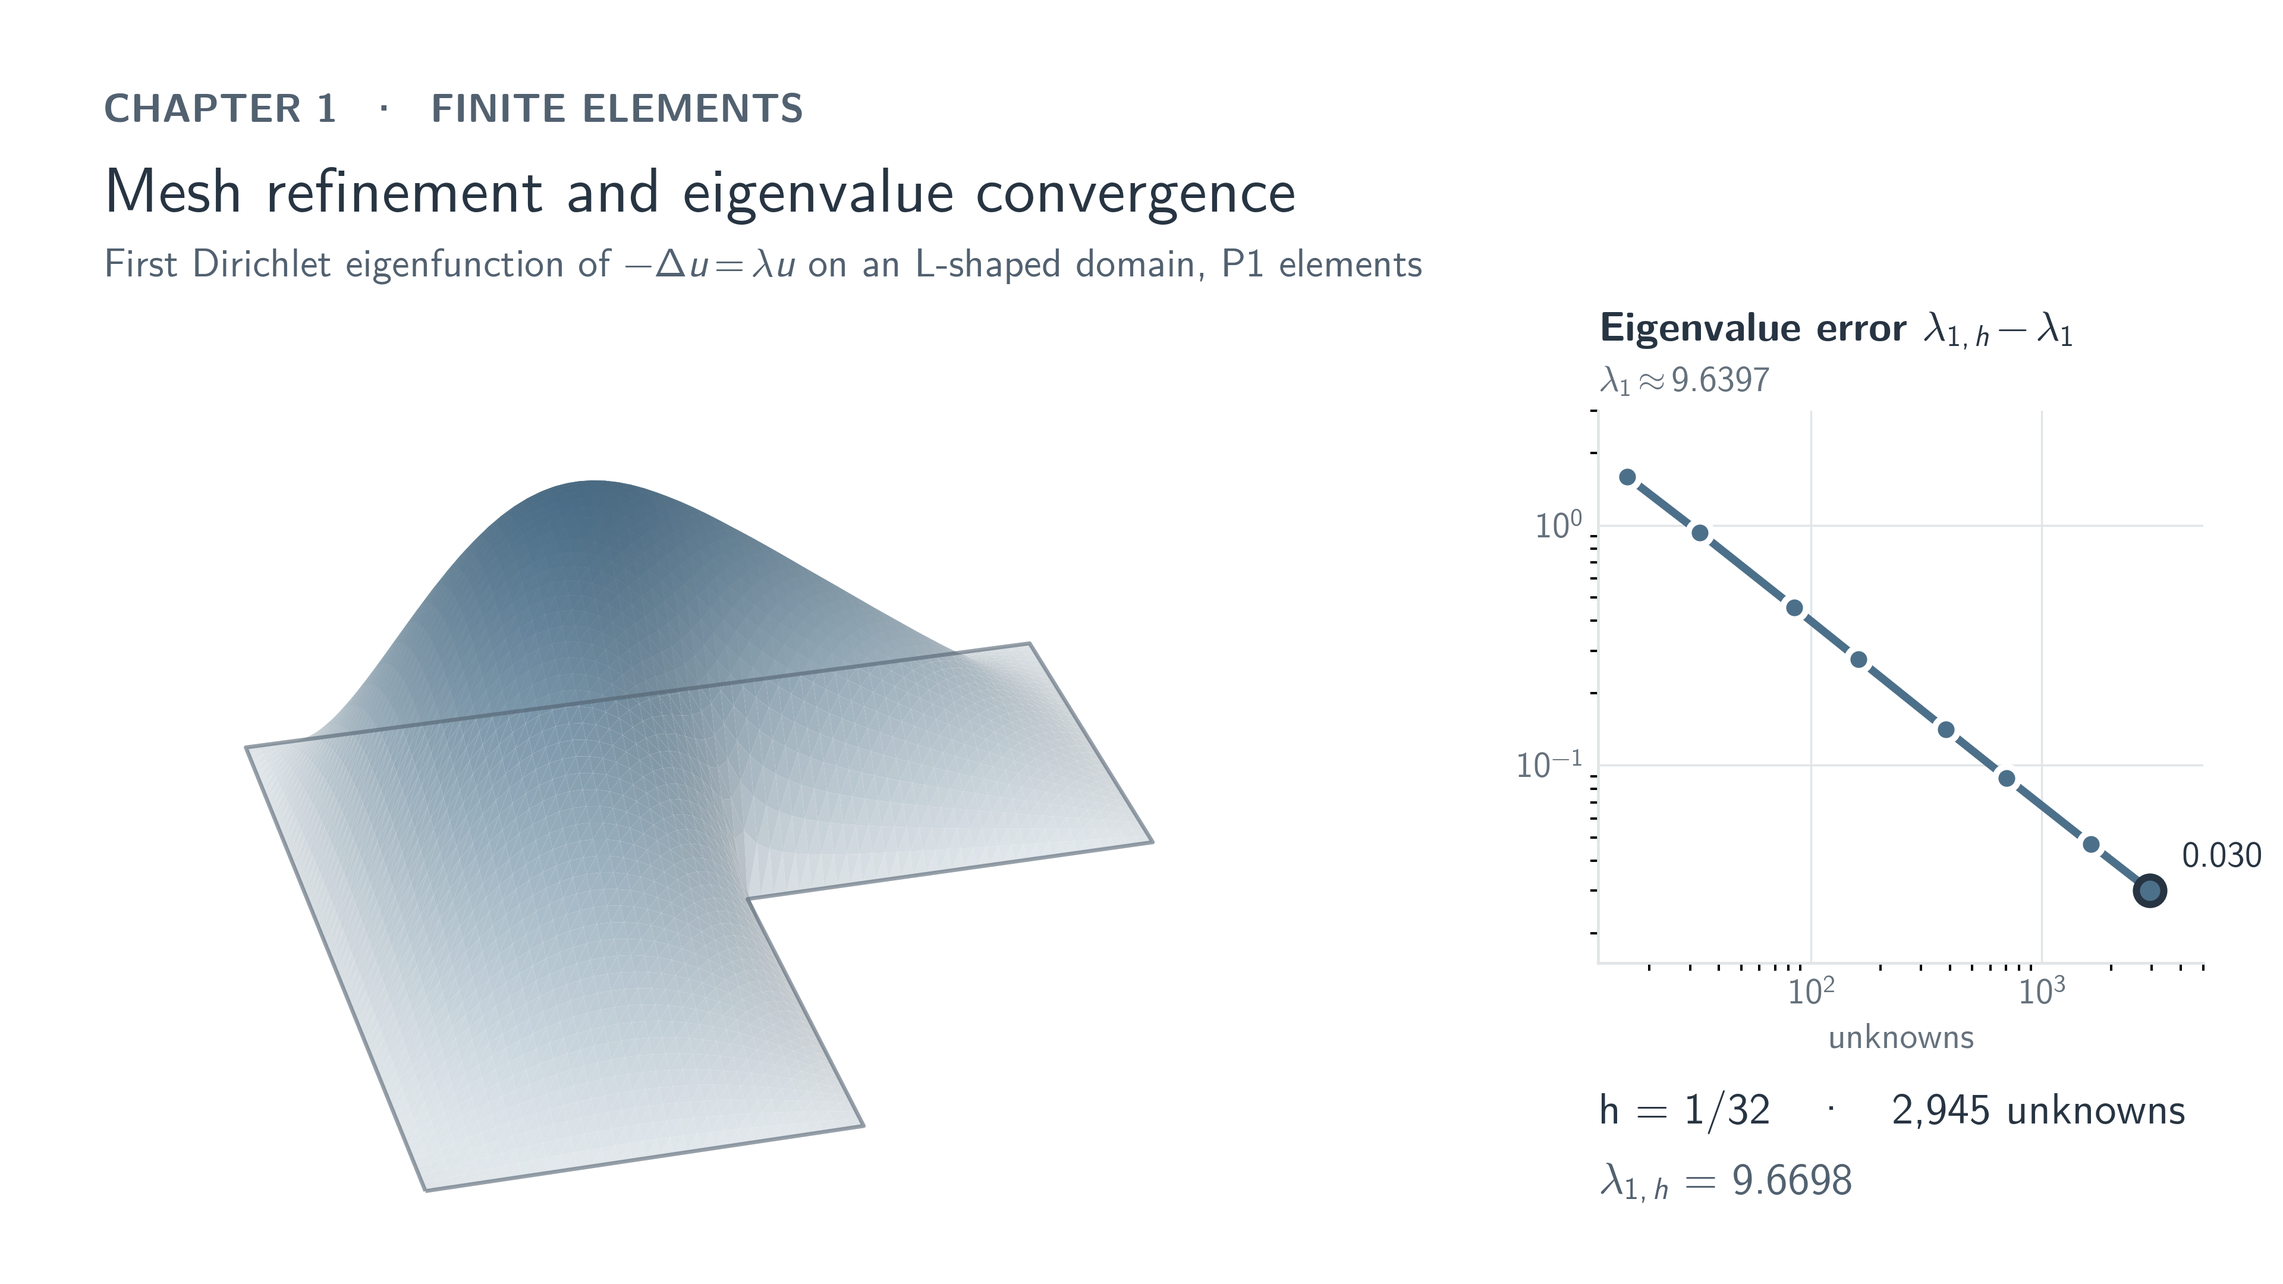
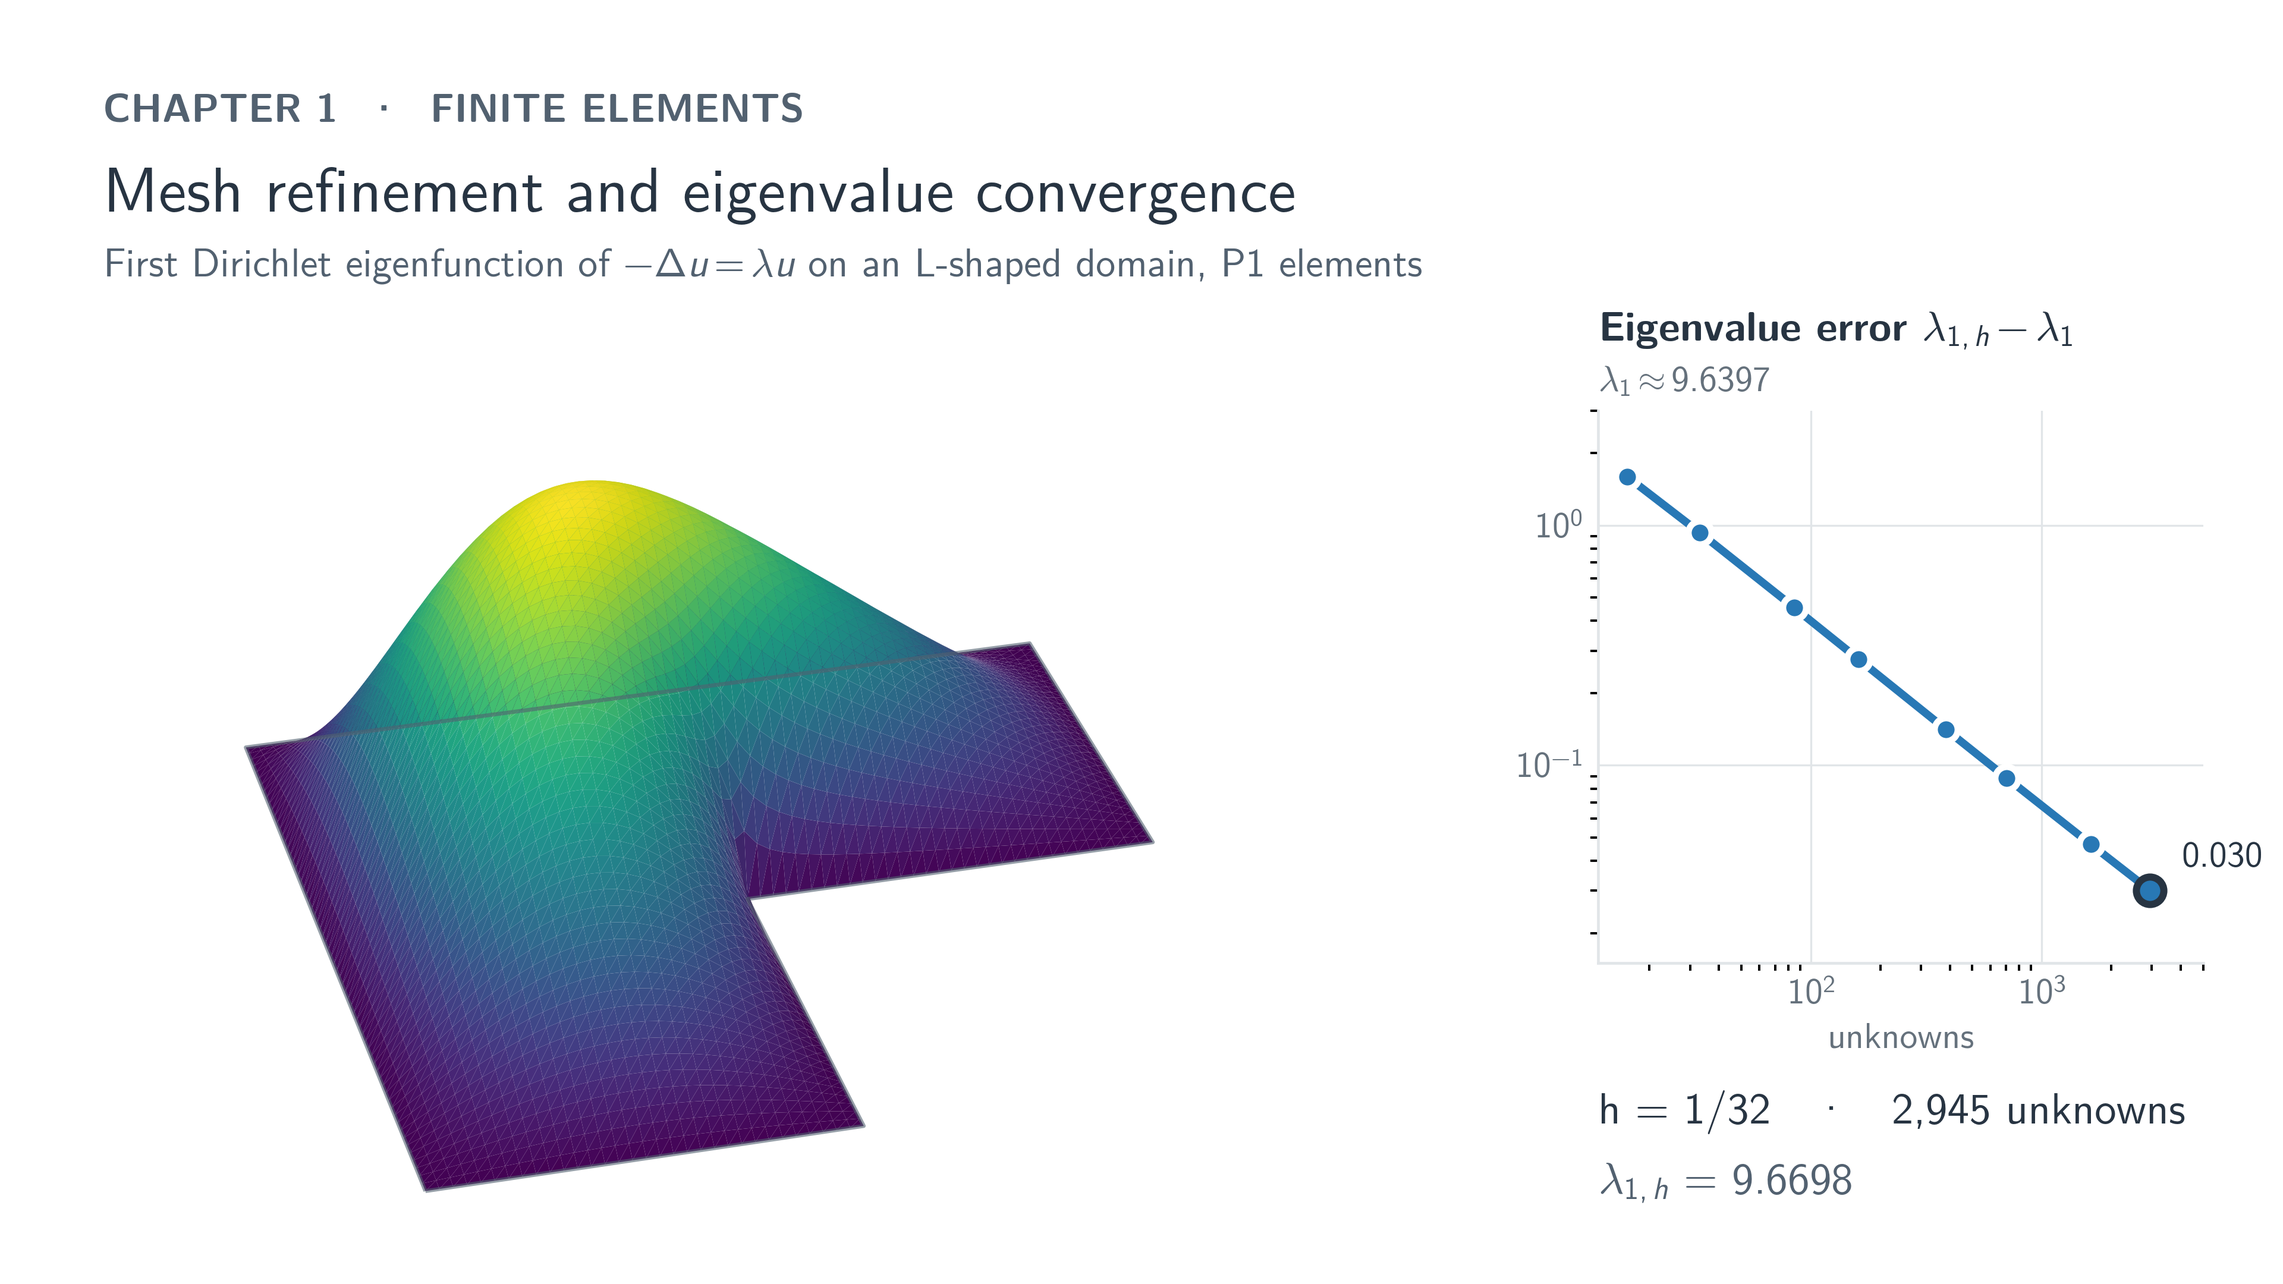
Improved visuals

diff --git a/.github/readme/generator/style.py b/.github/readme/generator/style.py
@@ -8,7 +8,7 @@ import matplotlib.pyplot as plt
 from matplotlib import font_manager
 from matplotlib.colors import LinearSegmentedColormap
 import numpy as np
-from PIL import Image
+from PIL import Image, ImageColor
 
 # Quiet, print-oriented palette shared by all README graphics.
 PAPER = "#FFFFFF"
@@ -20,6 +20,13 @@ LABEL = "#526170"
 BLUE = "#4D708A"
 RUST = "#A47758"
 LIGHT = "#F3F5F6"
+
+# Vivid data colours for animations; typography keeps the neutral tokens above.
+PLOT_BLUE = "#2878B5"
+PLOT_ORANGE = "#E87524"
+PLOT_PURPLE = "#8056BD"
+ANIMATION_SOLUTION_CMAP = matplotlib.colormaps["viridis"]
+ANIMATION_ERROR_CMAP = matplotlib.colormaps["plasma"]
 
 # Render at native UHD resolution; never enlarge a low-resolution raster.
 ANIMATION_FIGSIZE = (8, 4.5)
@@ -60,37 +67,57 @@ def use_course_fonts():
     })
 
 
-def fig_to_image(fig, size=None):
-    """Render a figure to a PIL image, optionally downsampled for crisp anti-aliasing."""
+def fig_to_image(fig, size=None, transparent=False):
+    """Render at native resolution, preserving alpha for transparent animations."""
+    if transparent:
+        fig.patch.set_alpha(0)
+        for ax in fig.axes:
+            ax.patch.set_alpha(0)
     fig.canvas.draw()
-    img = Image.fromarray(np.asarray(fig.canvas.buffer_rgba())[..., :3].copy())
+    rgba = np.asarray(fig.canvas.buffer_rgba()).copy()
+    img = Image.fromarray(rgba if transparent else rgba[..., :3])
     if size is not None:
-        img = img.resize(size, Image.LANCZOS)
+        img = img.resize(size, Image.Resampling.LANCZOS)
     return img
 
 
-def save_gif(frames, path, durations, colors=256):
-    """Write a UHD GIF with a stable full palette and a lossless final still.
+def save_gif(frames, path, durations):
+    """Write transparent UHD frames with a shared 255-colour data palette.
 
-    Every frame contributes to the palette. Small palette-training previews keep
-    memory bounded without reducing the resolution of the encoded frames.
+    GIF reserves the final palette entry for one-bit transparency. Restore the
+    transparent background between frames so moving curves leave no trails.
+    The final PNG retains full colour and smooth alpha at antialiased edges.
     """
     thumb_size = (480, 270)
-    sample = Image.new("RGB", (thumb_size[0], thumb_size[1] * len(frames)))
+    sample = Image.new("RGB", (thumb_size[0], thumb_size[1] * len(frames)), "white")
     for k, frame in enumerate(frames):
-        sample.paste(frame.resize(thumb_size, Image.Resampling.LANCZOS),
-                     (0, k * thumb_size[1]))
-    palette = sample.quantize(colors=colors, method=Image.Quantize.MEDIANCUT)
-    # Preserve the exact white page background after adaptive quantisation.
-    entries = palette.getpalette()
-    whitest = max(range(colors), key=lambda i: sum(entries[3 * i:3 * i + 3]))
-    entries[3 * whitest:3 * whitest + 3] = [255, 255, 255]
+        thumb = frame.convert("RGBA").resize(thumb_size, Image.Resampling.LANCZOS)
+        sample.paste(thumb, (0, k * thumb_size[1]), thumb.getchannel("A"))
+    # Reserve exact text and series colours: adaptive quantisation alone can
+    # merge small dark labels into a purple or blue from a large colour plot.
+    fixed = [PAPER, INK, SECONDARY, MUTED, GRID, PLOT_BLUE, PLOT_ORANGE, PLOT_PURPLE]
+    adaptive_colors = 255 - len(fixed)
+    palette = sample.quantize(colors=adaptive_colors, method=Image.Quantize.MEDIANCUT)
+    entries = palette.getpalette()[:3 * adaptive_colors]
+    entries += [channel for color in fixed for channel in ImageColor.getrgb(color)]
+    # Duplicate an existing colour in the reserved slot, then explicitly remap
+    # that slot before assigning transparency. White plotted details stay opaque.
+    entries += entries[:3]
     palette.putpalette(entries)
-    # Dithering preserves subtle surface gradients within GIF's colour limit.
-    quantised = [frame.quantize(palette=palette, dither=Image.Dither.FLOYDSTEINBERG)
-                 for frame in frames]
+    quantised = []
+    for frame in frames:
+        rgba = frame.convert("RGBA")
+        # Use straight RGB at edges: no white matte around text on other themes.
+        rgb = rgba.convert("RGB")
+        indexed = rgb.quantize(palette=palette, dither=Image.Dither.FLOYDSTEINBERG)
+        pixels = np.array(indexed)
+        pixels[pixels == 255] = 0
+        pixels[np.asarray(rgba.getchannel("A")) < 128] = 255
+        indexed = Image.fromarray(pixels)
+        indexed.putpalette(entries)
+        quantised.append(indexed)
     quantised[0].save(path, save_all=True, append_images=quantised[1:], duration=durations,
-                      loop=0, optimize=False, disposal=1)
+                      loop=0, optimize=False, disposal=2, transparency=255, background=255)
     path = Path(path)
     frames[-1].save(path.with_name(path.stem + "_still.png"), optimize=True)
 

diff --git a/.github/readme/generator/gif_ml.py b/.github/readme/generator/gif_ml.py
@@ -6,7 +6,7 @@ import torch
 import matplotlib.pyplot as plt
 from matplotlib.lines import Line2D
 
-from style import (ANIMATION_FIGSIZE, ANIMATION_DPI, PAPER, BLUE, RUST, INK, SECONDARY, MUTED, LABEL,
+from style import (ANIMATION_FIGSIZE, ANIMATION_DPI, PAPER, PLOT_BLUE, PLOT_ORANGE, PLOT_PURPLE, INK, SECONDARY, MUTED, LABEL,
                    use_course_fonts, fig_to_image, save_gif, style_axes)
 
 SEED, SIGMA, N_TRAIN, N_VAL, WIDTH, LR, STEPS = 3, 0.15, 40, 20, 48, 5e-3, 6000
@@ -61,15 +61,15 @@ def draw_frame(data, snap):
     ax = fig.add_axes([0.075, 0.13, 0.50, 0.55])
     style_axes(ax)
     ax.plot(data["grid"], target(data["grid"]), color=MUTED, linewidth=1.4, linestyle="--", zorder=1)
-    ax.scatter(data["xt"], data["yt"], s=30, color=BLUE, edgecolors=PAPER, linewidths=1.4, zorder=3)
-    ax.scatter(data["xv"], data["yv"], s=30, marker="s", color=RUST, edgecolors=PAPER, linewidths=1.4, zorder=3)
-    ax.plot(data["grid"], pred, color=INK, linewidth=2.2, solid_capstyle="round", zorder=4)
+    ax.scatter(data["xt"], data["yt"], s=30, color=PLOT_BLUE, edgecolors=PAPER, linewidths=1.4, zorder=3)
+    ax.scatter(data["xv"], data["yv"], s=30, marker="s", color=PLOT_ORANGE, edgecolors=PAPER, linewidths=1.4, zorder=3)
+    ax.plot(data["grid"], pred, color=PLOT_PURPLE, linewidth=2.2, solid_capstyle="round", zorder=4)
     ax.set_xlim(0, 1); ax.set_ylim(-1.55, 1.55)
     ax.set_xlabel("x", color=MUTED, fontsize=9, labelpad=2)
-    handles = [Line2D([], [], color=INK, lw=2.2, label="network"),
+    handles = [Line2D([], [], color=PLOT_PURPLE, lw=2.2, label="network"),
                Line2D([], [], color=MUTED, lw=1.4, ls="--", label="hidden function"),
-               Line2D([], [], color=BLUE, marker="o", lw=0, ms=6, mec=PAPER, label="training data"),
-               Line2D([], [], color=RUST, marker="s", lw=0, ms=6, mec=PAPER, label="validation data")]
+               Line2D([], [], color=PLOT_BLUE, marker="o", lw=0, ms=6, mec=PAPER, label="training data"),
+               Line2D([], [], color=PLOT_ORANGE, marker="s", lw=0, ms=6, mec=PAPER, label="validation data")]
     leg = ax.legend(handles=handles, loc="upper center", bbox_to_anchor=(0.5, 1.13), ncol=4, frameon=False,
                     fontsize=8.5, handlelength=1.6, columnspacing=1.2, labelcolor=SECONDARY)
 
@@ -82,14 +82,14 @@ def draw_frame(data, snap):
     lx.axhline(SIGMA ** 2, color=MUTED, linewidth=1.0)
     lx.text(1.3, SIGMA ** 2 * 1.12, "noise level σ²", color=MUTED, fontsize=8.5, va="bottom")
     s, tr, va = hist[:, 0], hist[:, 1], hist[:, 2]
-    lx.plot(s, tr, color=BLUE, linewidth=2, zorder=3)
-    lx.plot(s, va, color=RUST, linestyle="--", linewidth=2, zorder=3)
-    lx.legend(handles=[Line2D([], [], color=BLUE, lw=2, label="training"),
-                       Line2D([], [], color=RUST, lw=2, ls="--", label="validation")],
+    lx.plot(s, tr, color=PLOT_BLUE, linewidth=2, zorder=3)
+    lx.plot(s, va, color=PLOT_ORANGE, linestyle="--", linewidth=2, zorder=3)
+    lx.legend(handles=[Line2D([], [], color=PLOT_BLUE, lw=2, label="training"),
+                       Line2D([], [], color=PLOT_ORANGE, lw=2, ls="--", label="validation")],
               loc="upper right", frameon=False, fontsize=8.5, handlelength=1.4, labelcolor=SECONDARY)
     # direct end labels only once the curves have separated (never stacked on each other)
     separated = abs(np.log10(tr[-1]) - np.log10(va[-1])) > 0.18
-    for series, colour, name in ((tr, BLUE, "training"), (va, RUST, "validation")):
+    for series, colour, name in ((tr, PLOT_BLUE, "training"), (va, PLOT_ORANGE, "validation")):
         lx.scatter(s[-1:], series[-1:], s=44, color=colour, edgecolors=PAPER, linewidths=1.6, zorder=4)
         if separated:
             lx.annotate(name, (s[-1], series[-1]), xytext=(7, -3), textcoords="offset points",
@@ -102,7 +102,7 @@ def draw_frame(data, snap):
     lx.set_xlabel("training step", color=MUTED, fontsize=9, labelpad=2)
     fig.text(0.665, 0.715, "Mean-squared error", color=INK, fontsize=10.5, fontweight="bold")
     fig.text(0.045, 0.035, f"step {step:,}", color=INK, fontsize=11)
-    img = fig_to_image(fig)
+    img = fig_to_image(fig, transparent=True)
     plt.close(fig)
     return img
 

diff --git a/.github/readme/generator/gif_pinn.py b/.github/readme/generator/gif_pinn.py
@@ -7,8 +7,8 @@ import matplotlib.pyplot as plt
 from matplotlib.colors import LogNorm
 from mpl_toolkits.mplot3d.art3d import Poly3DCollection
 
-from style import (ANIMATION_FIGSIZE, ANIMATION_DPI, PAPER, BLUE, RUST, INK, SECONDARY, MUTED, GRID, LABEL,
-                   SOLUTION_CMAP, ERROR_CMAP, use_course_fonts, fig_to_image, save_gif, style_axes)
+from style import (ANIMATION_FIGSIZE, ANIMATION_DPI, PAPER, PLOT_BLUE, PLOT_ORANGE, INK, SECONDARY, MUTED, GRID, LABEL,
+                   ANIMATION_SOLUTION_CMAP, ANIMATION_ERROR_CMAP, use_course_fonts, fig_to_image, save_gif, style_axes)
 
 STEPS, LR, N_COLLOCATION, SEED = 3000, 2e-3, 1024, 7
 LIGHT = np.array([-0.45, -0.55, 0.85]) / np.linalg.norm([-0.45, -0.55, 0.85])
@@ -62,7 +62,7 @@ def surface_polys(X, Y, Z):
     n /= np.linalg.norm(n, axis=1, keepdims=True) + 1e-15
     n[n[:, 2] < 0] *= -1
     shade = 0.85 + 0.15 * np.clip(n @ LIGHT, 0, 1)
-    colours = SOLUTION_CMAP(np.clip(tris[:, :, 2].mean(1), 0, 1))[:, :3] * shade[:, None]
+    colours = ANIMATION_SOLUTION_CMAP(np.clip(tris[:, :, 2].mean(1), 0, 1))[:, :3] * shade[:, None]
     return tris, np.clip(colours, 0, 1)
 
 
@@ -86,10 +86,10 @@ def draw_frame(data, snap, azim):
     ax.view_init(elev=27, azim=azim)
     fig.text(0.045, 0.705, r"network solution $u_\theta(x,y)$", color=SECONDARY, fontsize=10)
 
-    # B: pointwise error (magnitude, log scale, one-hue ramp)
+    # B: pointwise error (magnitude, log scale, perceptually ordered colour ramp)
     ex = fig.add_axes([0.47, 0.25, 0.19, 0.32])
     err = np.abs(pred - data["exact"]) + 1e-12
-    im = ex.imshow(err, origin="lower", extent=(0, 1, 0, 1), cmap=ERROR_CMAP,
+    im = ex.imshow(err, origin="lower", extent=(0, 1, 0, 1), cmap=ANIMATION_ERROR_CMAP,
                    norm=LogNorm(1e-5, 1.0), interpolation="bilinear")
     ex.set_xticks([]); ex.set_yticks([])
     for sp in ex.spines.values():
@@ -106,14 +106,14 @@ def draw_frame(data, snap, azim):
     cx.set_xlim(1, STEPS * 1.3); cx.set_ylim(3e-5, 2.0)
     cx.set_xticks([1, 10, 100, 1000])
     s, res, rel = hist[:, 0], hist[:, 1], hist[:, 2]
-    cx.plot(s, res, color=BLUE, linewidth=2, zorder=3)
-    cx.plot(s, rel, color=RUST, linestyle="--", linewidth=2, zorder=3)
-    for series, colour in ((res, BLUE), (rel, RUST)):
+    cx.plot(s, res, color=PLOT_BLUE, linewidth=2, zorder=3)
+    cx.plot(s, rel, color=PLOT_ORANGE, linestyle="--", linewidth=2, zorder=3)
+    for series, colour in ((res, PLOT_BLUE), (rel, PLOT_ORANGE)):
         cx.scatter(s[-1:], series[-1:], s=40, color=colour, edgecolors=PAPER, linewidths=1.6, zorder=4)
     cx.set_xlabel("training step", color=MUTED, fontsize=9, labelpad=2)
     fig.text(0.795, 0.605, "Training", color=INK, fontsize=10.5, fontweight="bold")
     # legend (two series), set as text tokens beside colour keys
-    for i, (label, colour) in enumerate((("PDE residual (loss)", BLUE), (r"relative $L^2$ error", RUST))):
+    for i, (label, colour) in enumerate((("PDE residual (loss)", PLOT_BLUE), (r"relative $L^2$ error", PLOT_ORANGE))):
         y = 0.105 - 0.05 * i
         fig.add_artist(plt.Line2D([0.795, 0.82], [y + 0.012, y + 0.012], color=colour, linewidth=2.2, linestyle="--" if i else "-",
                                   transform=fig.transFigure))
@@ -121,7 +121,7 @@ def draw_frame(data, snap, azim):
     fig.text(0.47, 0.105, f"step {step:,}", color=INK, fontsize=11)
     fig.text(0.47, 0.055, rf"relative $L^2$ error {rel[-1]:.1e}".replace("e-0", "e-"), color=SECONDARY,
              fontsize=10)
-    img = fig_to_image(fig)
+    img = fig_to_image(fig, transparent=True)
     plt.close(fig)
     return img
 

diff --git a/.github/readme/generator/gif_fem.py b/.github/readme/generator/gif_fem.py
@@ -5,8 +5,8 @@ import numpy as np
 import matplotlib.pyplot as plt
 from mpl_toolkits.mplot3d.art3d import Poly3DCollection, Line3DCollection
 
-from style import (ANIMATION_FIGSIZE, ANIMATION_DPI, PAPER, BLUE, INK, SECONDARY, MUTED, LABEL,
-                   SOLUTION_CMAP, use_course_fonts, fig_to_image, save_gif, style_axes)
+from style import (ANIMATION_FIGSIZE, ANIMATION_DPI, PAPER, PLOT_BLUE, INK, SECONDARY, MUTED, LABEL,
+                   ANIMATION_SOLUTION_CMAP, use_course_fonts, fig_to_image, save_gif, style_axes)
 from fem_lshape import first_eigenpair, LAMBDA_1
 
 LEVELS = (3, 4, 6, 8, 12, 16, 24, 32)
@@ -21,7 +21,7 @@ def surface_polys(pts, tris, u):
     normals /= np.linalg.norm(normals, axis=1, keepdims=True)
     normals[normals[:, 2] < 0] *= -1
     shade = 0.85 + 0.15 * np.clip(normals @ LIGHT, 0.0, 1.0)
-    colours = SOLUTION_CMAP(u[tris].mean(axis=1))[:, :3] * shade[:, None]
+    colours = ANIMATION_SOLUTION_CMAP(u[tris].mean(axis=1))[:, :3] * shade[:, None]
     return verts, np.clip(colours, 0, 1)
 
 
@@ -60,16 +60,16 @@ def draw_frame(sol, k, azim, history):
     cx.set_xlim(12, 5000); cx.set_ylim(1.5e-2, 3.0)
     done = history[:k + 1]
     xs, ys = [d for d, _ in done], [e for _, e in done]
-    cx.plot(xs, ys, color=BLUE, linewidth=2, solid_capstyle="round", solid_joinstyle="round", zorder=2)
-    cx.scatter(xs[:-1], ys[:-1], s=34, color=BLUE, edgecolors=PAPER, linewidths=1.6, zorder=3)
-    cx.scatter(xs[-1:], ys[-1:], s=48, color=BLUE, edgecolors=INK, linewidths=1.8, zorder=4)
+    cx.plot(xs, ys, color=PLOT_BLUE, linewidth=2, solid_capstyle="round", solid_joinstyle="round", zorder=2)
+    cx.scatter(xs[:-1], ys[:-1], s=34, color=PLOT_BLUE, edgecolors=PAPER, linewidths=1.6, zorder=3)
+    cx.scatter(xs[-1:], ys[-1:], s=48, color=PLOT_BLUE, edgecolors=INK, linewidths=1.8, zorder=4)
     cx.annotate(f"{ys[-1]:.3f}", (xs[-1], ys[-1]), xytext=(8, 6), textcoords="offset points",
                 color=INK, fontsize=9)
     cx.set_xlabel("unknowns", color=MUTED, fontsize=9, labelpad=3)
     fig.text(0.70, 0.735, r"Eigenvalue error $\lambda_{1,h}-\lambda_1$", color=INK, fontsize=10.5,
              fontweight="bold")
     fig.text(0.70, 0.695, r"$\lambda_1 \approx 9.6397$", color=MUTED, fontsize=9)
-    img = fig_to_image(fig)
+    img = fig_to_image(fig, transparent=True)
     plt.close(fig)
     return img
 

diff --git a/.github/readme/generator/make_all.py b/.github/readme/generator/make_all.py
@@ -11,7 +11,9 @@ The animations rerun three computations: P1 finite elements for the L-shaped
 eigenproblem (fem), a small tanh network fitted to noisy samples (ml) and a
 physics-informed network for a 2D Poisson problem (pinn). The highlight strips
 reuse figures from the chapter folders. Animations are rendered at native UHD
-(3840 × 2160) with 256 colours; each also exports a lossless *_still.png final frame.
+(3840 × 2160) with 255 data colours plus transparency; each also exports a
+lossless RGBA *_still.png final frame. Animation text stays neutral while the
+plotted data use blue/orange/purple series and viridis/plasma colour maps.
 """
 import sys
 from pathlib import Path

diff --git a/README.md b/README.md
@@ -158,13 +158,3 @@ cd "3. Neural networks for solving PDEs"
 python -m pip install -r experiments/requirements-notebook.txt
 python -m jupyter lab Neural_PDE_01_foundations.ipynb
 ```
-
-## About the README graphics
-
-The graphics use a restrained palette and fixed viewpoints, with pauses to read each
-result. Animations are rendered at 3840 × 2160 with a 256-color palette; click an
-animation to open its lossless, full-resolution final frame. The animations show a
-P1 finite element eigenfunction on an L-shaped domain, a network fitting noisy data,
-and a PINN solving Poisson. To rerun the computations and rebuild
-the graphics, run `python .github/readme/generator/make_all.py` with NumPy, SciPy,
-Matplotlib, Pillow, and PyTorch installed.
